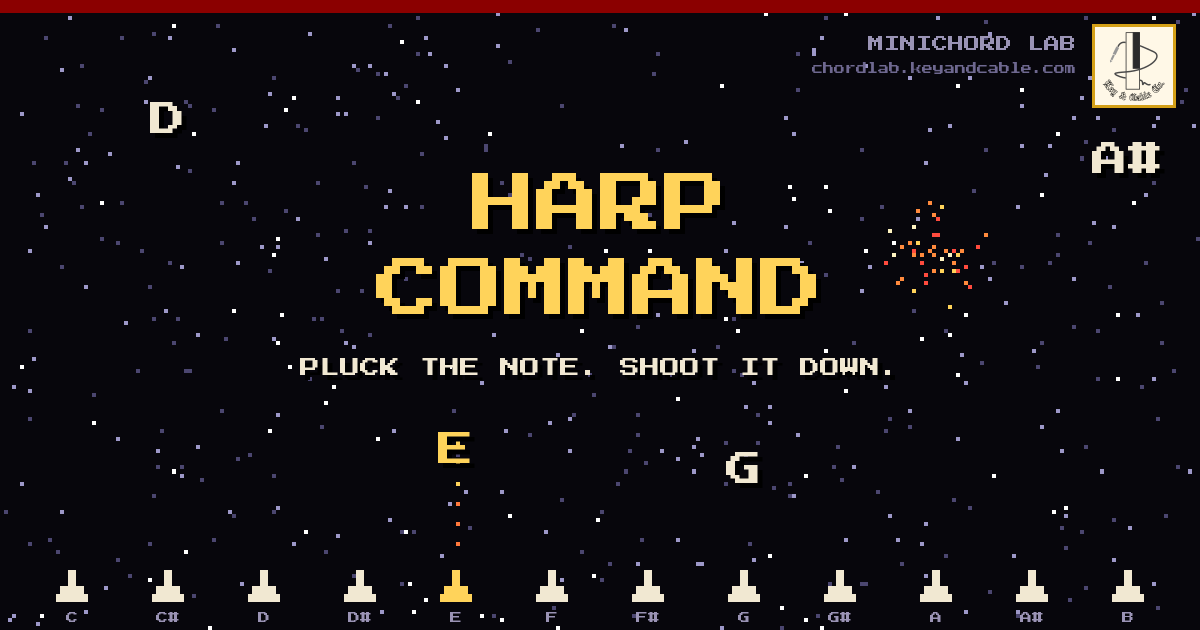
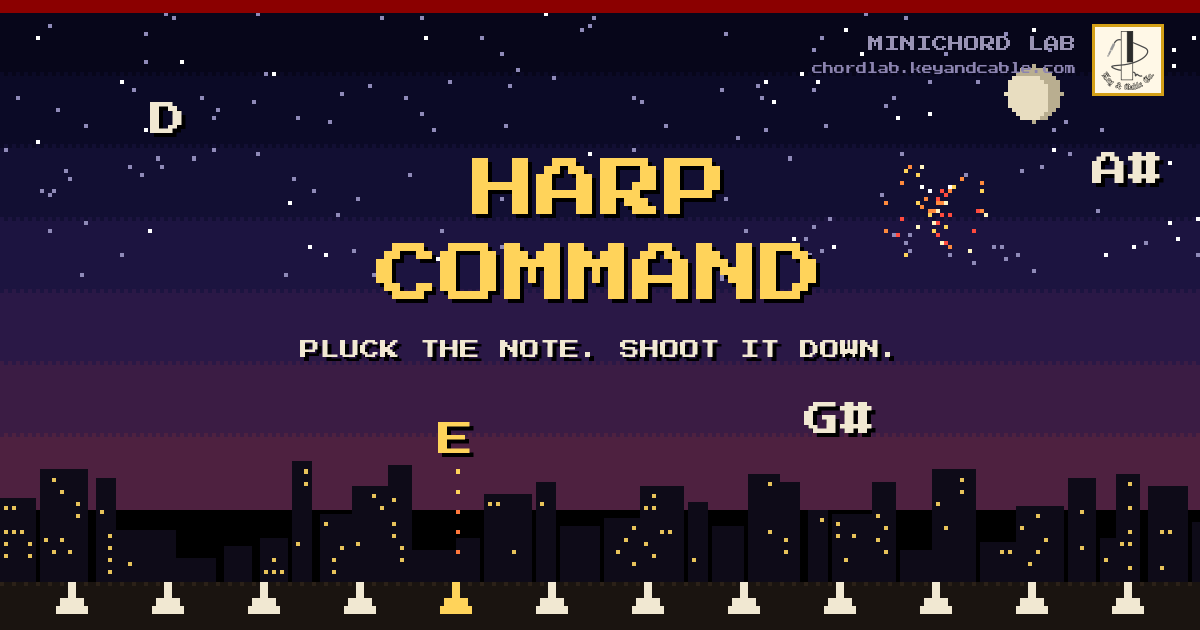
Arcade games: a background for each game, and cards to match
Only Chord Invaders keeps the moving starfield. Chord Asteroids has
still stars with a few slowly twinkling; Harp Command a night over a
city, dusk in dithered bands, stars, a pixel moon and a lit skyline
behind the cannons; Chord Snake a dim grid of dots like an old
handheld's playfield; Chord Stack a wall of dark bricks. The still
backgrounds are painted once and copied each frame, which costs less
than the moving stars. Harp Command's, Chord Snake's and Chord Stack's
cards, on the front page and in link previews, are redrawn on their
games' new backgrounds.

diff --git a/practice/index.html b/practice/index.html
@@ -3041,12 +3041,66 @@ function explode(x,y,n=26,colours=["#FFD35A","#FF8A3D","#FFF4C2","#FF4B3E"]){
   for(let i=0;i<n;i++){ const a=Math.random()*Math.PI*2, v=40+Math.random()*140;
     fx.sparks.push({x:x/PX, y:y/PX, vx:Math.cos(a)*v/PX, vy:Math.sin(a)*v/PX, life:1, c:colours[i%colours.length]}); }
 }
+// Each game has its own sky. Chord Invaders flies through a starfield; the others stay put, so a
+// still background is drawn once to its own canvas and copied each frame, which costs next to nothing.
+//   invaders   stars streaming past, faster at higher levels
+//   asteroids  still stars, a few of them twinkling, as the old vector game had
+//   command    a night over a city: bands of dusk sky, a few stars, a moon, and the skyline the cannons guard
+//   snake      a dim grid of dots, like the playfield of an old handheld
+//   stack      a wall of dark bricks behind the board
+function fxBackground(g, W, H, now, dt){
+  const kind=blast.kind, fx=blast.fx;
+  if(kind==="blaster"){
+    const speed=blast.phase==="play" ? 1+blast.level*.25 : .6;
+    g.fillStyle="#07060C"; g.fillRect(0,0,W,H);
+    for(const s of fx.stars){ s.y+=s.z*speed*dt*9; if(s.y>=H){ s.y-=H; s.x=Math.random()*W; }
+      g.fillStyle = s.z===3 ? "#FFFFFF" : s.z===2 ? "#9D98C9" : "#4B4670"; g.fillRect(Math.floor(s.x),Math.floor(s.y),1,s.z===3?2:1); }
+    return;
+  }
+  if(!fx.bg || fx.bg.width!==W || fx.bg.height!==H || fx.bgKind!==kind){ fx.bg=fxPaintBackground(kind, W, H); fx.bgKind=kind; }
+  g.drawImage(fx.bg, 0, 0);
+  if(kind==="asteroids"){   // a handful of stars twinkle, slowly
+    for(let i=0;i<fx.stars.length;i+=9){ const s=fx.stars[i], on=Math.sin(now/700+i*1.7)>.6; if(on){ g.fillStyle="#FFFFFF"; g.fillRect(Math.floor(s.x),Math.floor(s.y),1,1); } }
+  }
+}
+function fxPaintBackground(kind, W, H){
+  const cv=document.createElement("canvas"); cv.width=W; cv.height=H; const g=cv.getContext("2d");
+  const rand=(seed=>()=>{ seed=(seed*16807)%2147483647; return seed/2147483647; })(kind.length*7919+W);
+  if(kind==="asteroids"){
+    g.fillStyle="#050409"; g.fillRect(0,0,W,H);
+    for(const s of blast.fx.stars){ g.fillStyle = s.z===3 ? "#C9C5E6" : s.z===2 ? "#6E6A94" : "#34304F"; g.fillRect(Math.floor(s.x),Math.floor(s.y),1,1); }
+  } else if(kind==="command"){
+    // dusk in bands, darkest at the top, dithered where they meet
+    const bands=["#07061A","#0B0A26","#120F33","#1C1440","#2A1846","#3B1C44","#4E2140"];
+    const bh=Math.ceil(H*.78/bands.length);
+    bands.forEach((c,i)=>{ g.fillStyle=c; g.fillRect(0,i*bh,W,bh+1);
+      if(i){ g.fillStyle=bands[i-1]; for(let x=0;x<W;x+=2) g.fillRect(x+(i%2),i*bh,1,1); } });
+    for(let i=0;i<W*H/260;i++){ const x=Math.floor(rand()*W), y=Math.floor(rand()*H*.45); g.fillStyle=rand()<.2?"#FFFFFF":"#8F8AB8"; g.fillRect(x,y,1,1); }
+    // a pixel moon
+    const mx=Math.floor(W*.82), my=Math.floor(H*.16), r=6;
+    for(let y=-r;y<=r;y++) for(let x=-r;x<=r;x++){ if(x*x+y*y<=r*r){ g.fillStyle = (x+2)*(x+2)+(y-1)*(y-1)<=r*r*.7 ? "#E8DDC0" : "#B9AE90"; g.fillRect(mx+x,my+y,1,1); } }
+    // the skyline the cannons guard, and the ground they stand on
+    const ground=H-10; g.fillStyle="#0E0B18";
+    for(let x=0;x<W;){ const w=4+Math.floor(rand()*9), h=6+Math.floor(rand()*(H*.16)); g.fillRect(x,ground-h,w,h);
+      g.fillStyle="#E8C35A"; for(let wy=ground-h+2; wy<ground-2; wy+=3) for(let wx=x+1; wx<x+w-1; wx+=2) if(rand()<.18) g.fillRect(wx,wy,1,1);
+      g.fillStyle="#0E0B18"; x+=w+Math.floor(rand()*3); }
+    g.fillStyle="#1A1410"; g.fillRect(0,ground,W,H-ground);
+    g.fillStyle="#2B2118"; for(let x=0;x<W;x+=3) g.fillRect(x,ground,2,1);
+  } else if(kind==="snake"){
+    g.fillStyle="#08100C"; g.fillRect(0,0,W,H);
+    g.fillStyle="#1B3325"; for(let y=1;y<H;y+=4) for(let x=1;x<W;x+=4) g.fillRect(x,y,1,1);
+  } else if(kind==="stack"){
+    g.fillStyle="#0A0810"; g.fillRect(0,0,W,H);
+    // dark bricks, offset every other course
+    g.fillStyle="#17122A";
+    for(let y=0,row=0;y<H;y+=6,row++) for(let x=(row%2)*5-5;x<W;x+=10) g.fillRect(x,y,9,5);
+  } else { g.fillStyle="#07060C"; g.fillRect(0,0,W,H); }
+  return cv;
+}
 function fxDraw(now, dt){
   const fx=blast.fx; if(!fx) return; fx.resize();
-  const g=fx.g, W=fx.w, H=fx.h, speed=blast.phase==="play" ? 1+blast.level*.25 : .6;
-  g.fillStyle="#07060C"; g.fillRect(0,0,W,H);
-  for(const s of fx.stars){ s.y+=s.z*speed*dt*9; if(s.y>=H){ s.y-=H; s.x=Math.random()*W; }
-    g.fillStyle = s.z===3 ? "#FFFFFF" : s.z===2 ? "#9D98C9" : "#4B4670"; g.fillRect(Math.floor(s.x),Math.floor(s.y),1,s.z===3?2:1); }
+  const g=fx.g, W=fx.w, H=fx.h;
+  fxBackground(g, W, H, now, dt);
   if(blast.asteroids) asDraw(g, now);
   else if(blast.noShip){ /* the snake's board has no ship */ }
   else if(blast.cannons){
